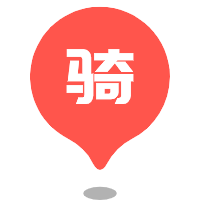
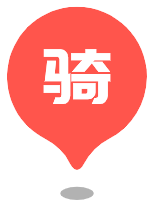
更新样式，修改地图骑手图标，配送样式，以及调整触底刷新

diff --git a/pages/index/index.js b/pages/index/index.js
@@ -50,7 +50,7 @@ Page({
     couponTimeSign: true,  // true 说明 满足 （不是同一天且第一次进入） false 说明 不满足 （不是同一天且第一次进入）
     couponModel: true, // 登录当天第一次进首页优惠券弹框
     couponData: [], // 首页弹框我的优惠券
-
+    limitnum:0,
     showTopBtn: false,
 
     newPeopleCouponData: [], // 新人优惠券数据
@@ -204,9 +204,10 @@ Page({
         index: 3,
       })
     }
-
+    
     this.fetchNewShopList();
     this.getRecommendList();//获取推荐商品
+   
 
   },
   getRecommendList(){
@@ -236,7 +237,10 @@ Page({
         _list.push(item)
       });
       // debugger
+      console.log(this.data.RecommendListData)
+      console.log(_list)
       let listData = [...this.data.RecommendListData, ..._list];
+      // let listData = this.data.RecommendListData.concat(_list)
       this.setData({
         RecommendListData: listData,
         page: this.data.page += 1,
@@ -259,8 +263,7 @@ Page({
       }
 
     });
-  }
-  ,
+  },
   onShareAppMessage: function() {
     return {
       title: '土星生鲜',
@@ -271,13 +274,18 @@ Page({
 
   onPullDownRefresh() {
     wx.showNavigationBarLoading(); //在标题栏中显示加载
-    this.getIndexData();
-    // this.getIndexSkillData();
+    
+    this.getIndexSkillData();
     // this.fetchDelicacyData();
     wx.hideNavigationBarLoading(); //完成停止加载
     wx.stopPullDownRefresh() //停止下拉刷新
   },
-
+  getRecommenddata:function(){
+    util.request(api.Recommend).then(res => {
+        
+    
+    })
+  },
   // 列表
   getIndexData: function() {
     util.request(api.IndexUrl).then(res => {
@@ -716,6 +724,7 @@ Page({
   },
 
   onReachBottom() {
+    this.getRecommendList()
     if(this.data.cateGoryActive === 0) {
       this.fetchNewShopList()
     } else {

diff --git a/pages/ucenter/distributionMap/distributionMap.js b/pages/ucenter/distributionMap/distributionMap.js
@@ -21,7 +21,7 @@ Page({
       latitude: '',
       longitude: '',
       iconPath: '/static/images/map_marker_qs.png',
-      width: 30,
+      width: 25,
       height: 36
     },
     //用户位置
@@ -30,7 +30,7 @@ Page({
       latitude: '',
       longitude: '',
       iconPath: '/static/images/map_marker_me.png',
-      width: 30,
+      width: 25,
       height: 36
     }],
   },

diff --git a/pages/ucenter/orderDetail/orderDetail.js b/pages/ucenter/orderDetail/orderDetail.js
@@ -20,7 +20,7 @@ Page({
       latitude: '',
       longitude: '',
       iconPath: '/static/images/map_marker_qs.png',
-      width: 30,
+      width: 25,
       height: 36
     }],
     longitudeDeliver: '',
